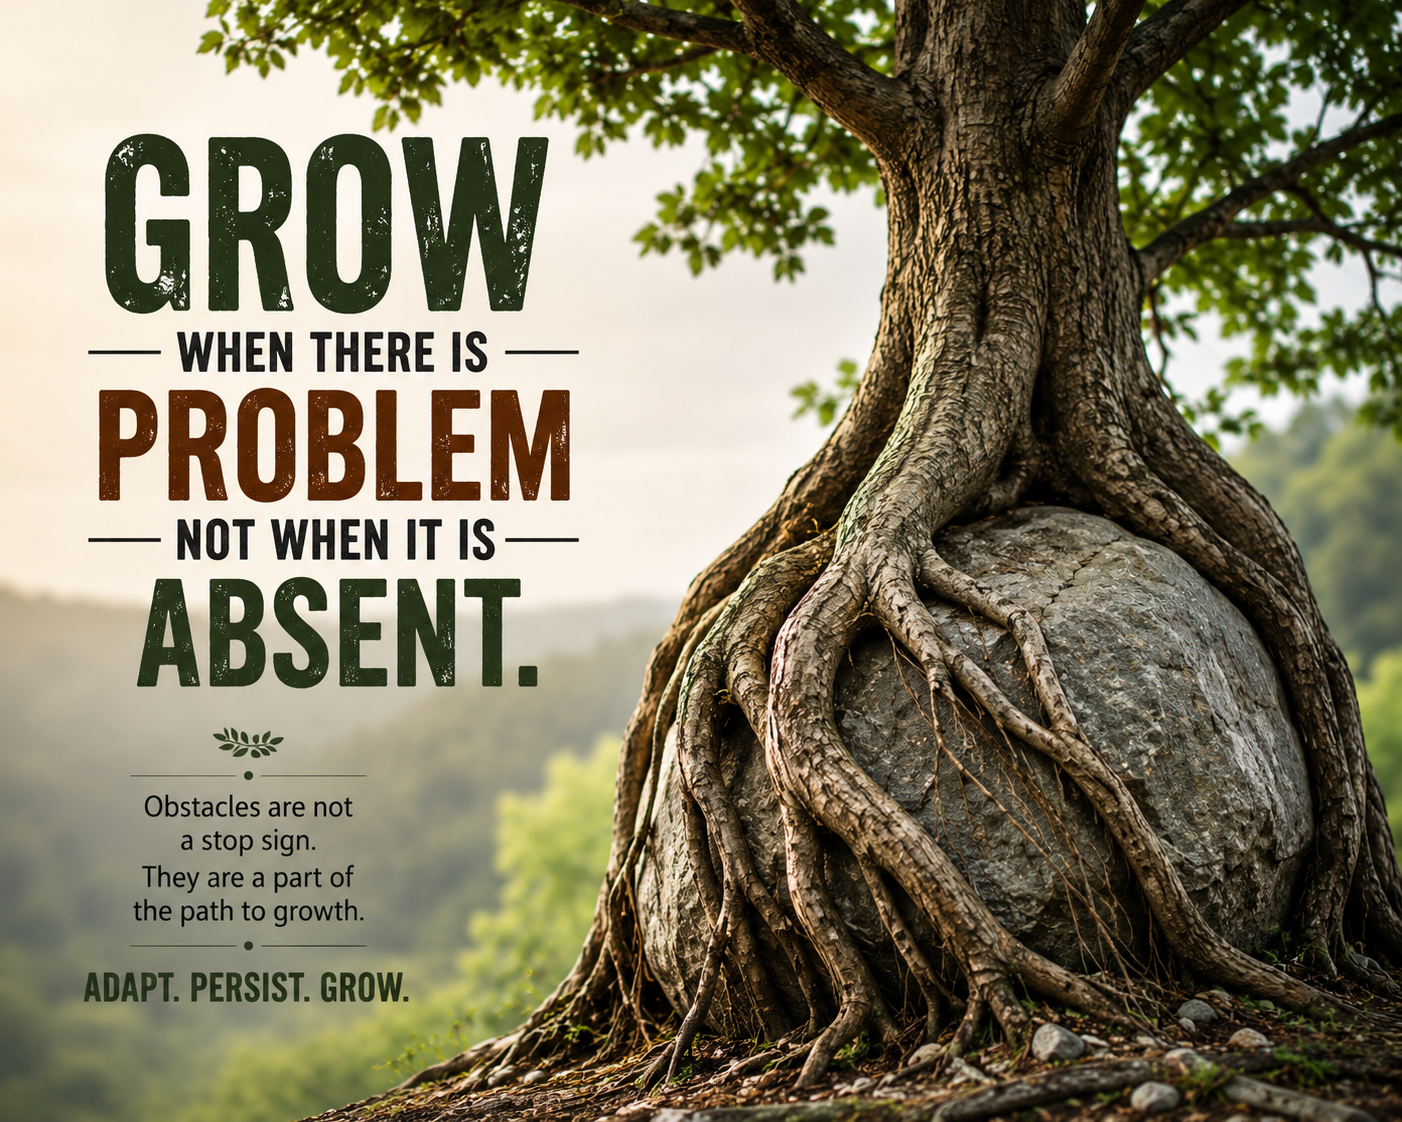
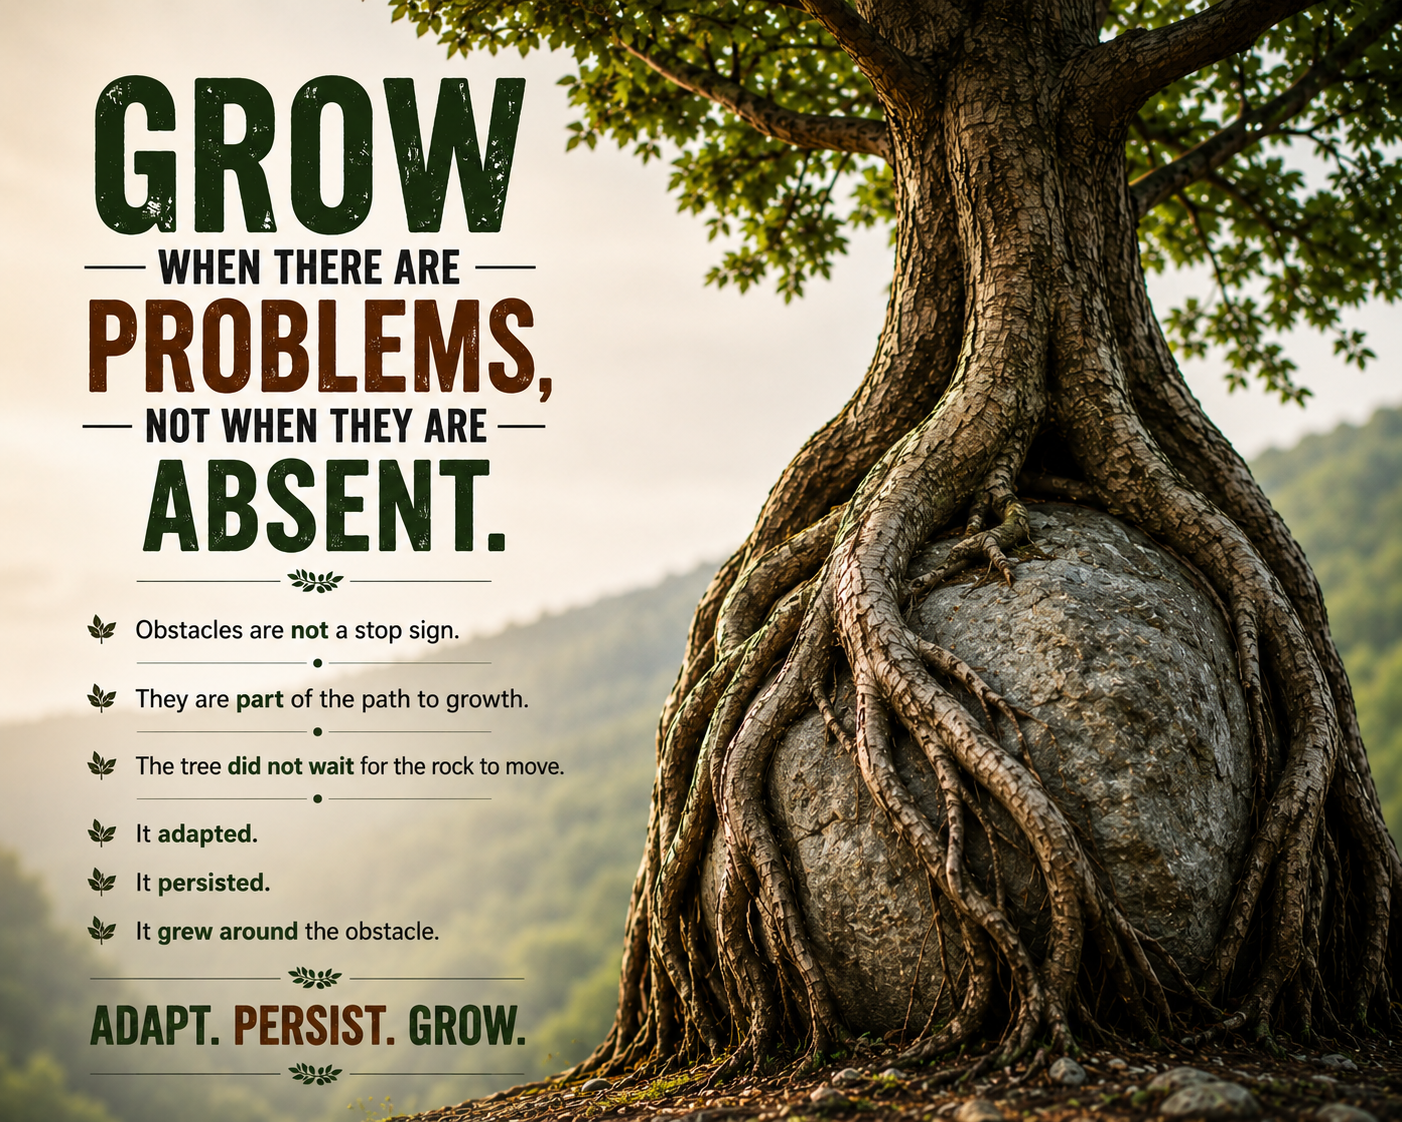
Today's word

diff --git a/Strategic-Literacy/03-foundational-principles.md b/Strategic-Literacy/03-foundational-principles.md
@@ -9,8 +9,8 @@ I am collecting the Inspirational Quotes / Wisdom from different sources.
 > 1. **Do not let** what is happening around you **get inside you and weigh you down**. - Anonymous
 > 1. **Never** put too much trust in friends. - Anonymous
 > 1. Lord, **protect me from my friends**; I can take care of my enemies. - Anonymous
-> 1. **Stop crossing oceans** for people **who will not even jump puddles for you**. - Anonymous -- **Here**
-> 1. The sad truth of life — the crooked often go unscathed, **while the straight are hammered till they bend**. - Anonymous
+> 1. **Stop crossing oceans** for people **who will not even jump puddles for you**. - Anonymous
+> 1. The sad truth of life — the crooked often go unscathed, **while the straight are hammered till they bend**. - Anonymous -- **Here**
 > 1. **You will continue to suffer** if you have an emotional reaction to everything that is said to you. True power is sitting back and observing things with logic. True power is restraint. If words control you, that means everyone else can control you. **Breathe and allow things to pass**. - Anonymous
 > 1. **Do not expect** people to understand your journey, especially when they have not walked your path. - Anonymous
 > 1. **Make your reputation unassailable; guard it with your life.** - Anonymous
@@ -63,8 +63,8 @@ And when we do wrong to others, that too finds its way back — in this life, or
 > 1. Do not believe anyone solely by their words or demeanor; true intentions emerge over time through actions, not appearances. – Viswanatha Swamy P K
 > 1. Do not trust at face value; true intentions reveal themselves through actions, not just words or appearances. – Viswanatha Swamy P K
 > 1. Trust slowly and watch actions closely; true intentions reveal themselves over time, beyond words and appearances. – Viswanatha Swamy P K
-> 1. Trust is revealed over time, not in appearances. Be cautious, for true intentions surface through consistent actions, not mere words. – Viswanatha Swamy P K -- **Here**
-> 1. Trust is a slow revelation of true intentions; Do not believe in appearances alone, as actions over time are the real measure. – Viswanatha Swamy P K
+> 1. Trust is revealed over time, not in appearances. Be cautious, for true intentions surface through consistent actions, not mere words. – Viswanatha Swamy P K
+> 1. Trust is a slow revelation of true intentions; Do not believe in appearances alone, as actions over time are the real measure. – Viswanatha Swamy P K -- **Here**
 > 1. Trust is not granted by words or appearances but earned through consistent actions over time. – Viswanatha Swamy P K
 > 1. Trust is a slow revelation; appearances and words can deceive, but actions are the true measure over time. – Viswanatha Swamy P K
 > 1. Words and appearances can mask intentions; only actions over time will reveal who can truly be trusted. – Viswanatha Swamy P K
@@ -89,8 +89,8 @@ And when we do wrong to others, that too finds its way back — in this life, or
 > 1. Success and failure are both temporary. Please do not get attached to either. One blinds you with pride, the other **drowns you in doubt**. - Anonymous
 > 1. Balance is not the end goal. **Balance is transient**, and you should seek experiences that contribute to an exciting and fulfilling life. - Anonymous
 > 1. You can not control people's loyalty. The only loyalty you can rely on is your own commitment to **yourself and your values**. - Anonymous
-> 1. Be brave enough to **look like a beginner**. Limiting yourself to what you have always been good at will stop you from exploring a whole new world of opportunity. - Anonymous -- **Here**
-> 1. In life, it really is **you VS you**. Try not to get caught up in the frenzy of comparing yourself to others or keeping up with the world’s expectations. - Anonymous
+> 1. Be brave enough to **look like a beginner**. Limiting yourself to what you have always been good at will stop you from exploring a whole new world of opportunity. - Anonymous
+> 1. In life, it really is **you VS you**. Try not to get caught up in the frenzy of comparing yourself to others or keeping up with the world’s expectations. - Anonymous -- **Here**
 > 1. Small habits make the biggest changes. Transformations do not happen overnight; they come from daily, **unremarkable steps** that no one else sees. - Anonymous
 > 1. The best ideas arrive in the shower, not in the boardroom. True creativity comes from **mental clarity, solitude, and freedom**. - Anonymous
 > 1. **Your environment shapes you**. If you want to change your outcomes, change your environment. - Anonymous
@@ -101,8 +101,8 @@ And when we do wrong to others, that too finds its way back — in this life, or
 
 > 1. **Hard Work Is Not Enough** → Results need to be seen. Advocate for yourself — quiet efforts get ignored. - Anonymous
 > 1. **Loyalty Would not Pay the Bills** → Companies are loyal to profits, not people. Look out for yourself first. - Anonymous
-> 1. **Your Job Title Is Temporary** → Focus on building skills, not clinging to labels. Titles don’t define your value. - Anonymous -- **Here**
-> 1. **Your Boss Is Not Always Right** → Leaders make mistakes too. Challenge respectfully when it matters. - Anonymous
+> 1. **Your Job Title Is Temporary** → Focus on building skills, not clinging to labels. Titles don’t define your value. - Anonymous
+> 1. **Your Boss Is Not Always Right** → Leaders make mistakes too. Challenge respectfully when it matters. - Anonymous -- **Here**
 > 1. **Networking Is Non-Negotiable** → Your skills are important, but connections will open the doors. - Anonymous
 > 1. **Burnout Is Not a Badge of Honor** → Work smarter, not harder. Protect your energy—it’s your greatest resource. - Anonymous
 > 1. **Comfort Zones Kill Growth** → If you’re not uncomfortable, you’re not growing. - Anonymous
@@ -149,8 +149,8 @@ And when we do wrong to others, that too finds its way back — in this life, or
 > 1. Beware of the cunning and powerful. - Panchatantra
 > 1. Give your word with care, and keep it with honor. - Panchatantra
 > 1. Target the source of the enemy's power. - Panchatantra
-> 1. Strike at the enemy's source of strength to defeat him. - Panchatantra -- **Here**
-> 1. To achieve victory, one must neutralize the enemy's primary source of strength. - Panchatantra
+> 1. Strike at the enemy's source of strength to defeat him. - Panchatantra
+> 1. To achieve victory, one must neutralize the enemy's primary source of strength. - Panchatantra -- **Here**
 > 1. Greed is destructive. - Panchatantra
 > 1. Excessive desire for wealth or possessions is harmful. - Panchatantra
 > 1. A fool's ears are deaf to wisdom. - Panchatantra
@@ -166,8 +166,8 @@ And when we do wrong to others, that too finds its way back — in this life, or
 > 1. The greatest glory in living lies not in never falling, but in rising every time we fall. - Nelson Mandela
 > 1. It always seems impossible until it is done. - Nelson Mandela
 > 1. The only way to achieve the impossible is to believe it is possible. - Charles Kingsleigh
-> 1. Fall seven times, stand up eight. - Japanese Proverb -- **Here**
-> 1. Strength grows in the moments when you think you can not go on but you keep going anyway. - Anonymous
+> 1. Fall seven times, stand up eight. - Japanese Proverb
+> 1. Strength grows in the moments when you think you can not go on but you keep going anyway. - Anonymous -- **Here**
 > 1. When everything seems to be going against you, remember that the airplane takes off against the wind, not with it. - Henry Ford
 > 1. The journey of a thousand miles begins with a single step. - Lao Tzu
 > 1. If you are going through hell, keep going. - Winston Churchill

diff --git a/EnglishLearning/Vocabulary/B.md b/EnglishLearning/Vocabulary/B.md
@@ -24,6 +24,11 @@ This file contains definitions and example usage for "B" words found in the insp
 **Meaning**: A row of small columns topped by a rail, often used as a protective barrier on balconies, staircases, or terraces.
 **Usage**: "Every small habit is like a balustrade, quietly guarding your progress from slipping backward." - Uses the image of a railing to show how steady routines protect your growth.
 
+## Barnstorm
+
+**Meaning**: To travel around giving performances or speeches, especially to promote a show, product, or political campaign; to tour energetically and persuasively.
+**Usage**: "The theatre troupe would barnstorm small towns each summer, bringing lively performances to places that rarely saw live shows." - Describes traveling widely to perform or campaign and galvanize local audiences.
+
 ## Beacon
 
 **Meaning**: A light or fire on a hill or tower serving as a signal or warning; a source of guidance or inspiration.

diff --git a/Strategic-Literacy/02-execution-discipline-defensive.md b/Strategic-Literacy/02-execution-discipline-defensive.md
@@ -89,7 +89,7 @@
 
 ---
 
-## 7. 🔥 VISIBILITY SYSTEM -- Here
+## 7. 🔥 VISIBILITY SYSTEM
 
 ### 7.1. I create visibility at all stages
 
@@ -163,7 +163,7 @@
 
 ---
 
-## 8. 🎯 IMPACT COMMUNICATION
+## 8. 🎯 IMPACT COMMUNICATION -- Here
 
 ### I communicate
 